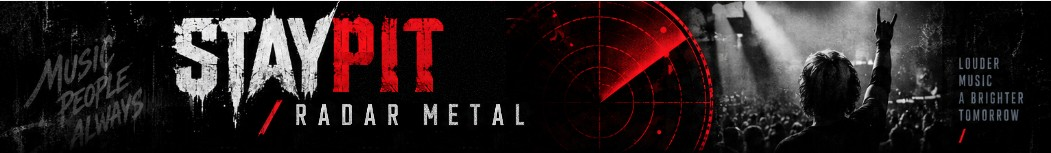
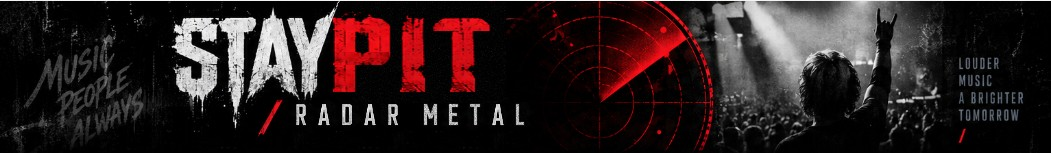
STAYPIT : lettres PIT élargies à la largeur de STAY (icône et bannière)
Claude-Session: https://claude.ai/code/session_01JEY3z9piJCXFyAaQnvY5d2

Changed region(s): [[0.3045, 0.0784, 0.4872, 0.6275]]

diff --git a/public/index.html b/public/index.html
@@ -1,5 +1,5 @@
 <!doctype html>
-<html lang="fr"><head><meta charset="utf-8"><meta name="viewport" content="width=device-width,initial-scale=1,viewport-fit=cover"><meta name="theme-color" content="#070809"><title>STAYPIT / Radar Metal</title><link rel="apple-touch-icon" href="/apple-touch-icon.png?v=3"><link rel="icon" type="image/png" sizes="32x32" href="/favicon-32.png?v=3"><link rel="manifest" href="/manifest.webmanifest"><meta name="apple-mobile-web-app-title" content="STAYPIT"><meta name="theme-color" content="#060709">
+<html lang="fr"><head><meta charset="utf-8"><meta name="viewport" content="width=device-width,initial-scale=1,viewport-fit=cover"><meta name="theme-color" content="#070809"><title>STAYPIT / Radar Metal</title><link rel="apple-touch-icon" href="/apple-touch-icon.png?v=4"><link rel="icon" type="image/png" sizes="32x32" href="/favicon-32.png?v=4"><link rel="manifest" href="/manifest.webmanifest"><meta name="apple-mobile-web-app-title" content="STAYPIT"><meta name="theme-color" content="#060709">
 <style>
 @import url('https://fonts.googleapis.com/css2?family=Barlow+Condensed:wght@500;600;700;800;900&family=Inter:wght@400;500;600;700;800&display=swap');
 :root{--bg:#050607;--panel:#0b0e12;--panel2:#0f1318;--line:#27303a;--red:#e50914;--red2:#ff2733;--white:#f5f5f5;--muted:#8e99a5;--soft:#c6ccd2;--max:1440px}
@@ -528,10 +528,10 @@ body.sl-radio-on .wrap{padding-bottom:150px}
 .profile-manage-lbl{font-size:12px;color:#8a939c;font-weight:700}
 .profile-del{margin-left:auto;border:1px solid #4a1d21;border-radius:999px;background:#120809;color:#ff8a92;font:700 12px Inter,Arial,sans-serif;padding:8px 12px;cursor:pointer;min-height:0}
 </style></head><body>
-<div id="authGate" class="auth-gate"><img class="auth-hero" src="/staypit-banner.jpg?v=1" alt="STAYPIT Radar Metal"><div class="auth-box"><div class="auth-sub">Votre espace personnel</div><h1 id="authTitle" class="auth-title">Se connecter</h1><form id="authForm" class="auth-form"><input id="authUser" name="username" type="text" autocomplete="username" placeholder="Nom d'utilisateur ou e-mail" minlength="3" maxlength="32" required><input id="authEmail" name="email" type="email" autocomplete="email" placeholder="Adresse e-mail" required><input id="authPass" name="password" type="password" autocomplete="current-password" placeholder="Mot de passe" minlength="6" required><div id="authError" class="auth-error"></div><button id="authSubmit" class="btn" type="submit">SE CONNECTER</button></form><div id="authForgot" class="auth-forgot"><button type="button" onclick="showForgotPassword()">Mot de passe ou nom d’utilisateur oublié ?</button></div><div id="forgotBox" class="auth-extra"><div class="auth-forgot-help">Indiquez l’adresse e-mail de votre compte : vous recevrez votre <strong>nom d’utilisateur</strong> et un lien pour choisir un <strong>nouveau mot de passe</strong>.</div><input id="forgotEmail" type="email" autocomplete="email" placeholder="Votre adresse e-mail"><button id="forgotSubmit" class="btn" type="button" onclick="requestPasswordReset()">ENVOYER LE LIEN</button><div id="forgotMsg" class="auth-email-note"></div><button type="button" class="mini" onclick="hideForgotPassword()">Retour à la connexion</button></div><div id="authNote" class="auth-note">Chaque compte possède ses propres groupes, photos, descriptions, actualités et concerts associés.</div><div class="auth-switch"><span id="authSwitchText">Pas encore de compte ?</span> <button id="authSwitch" type="button">Créer un compte</button></div><a class="auth-privacy" href="/confidentialite.html" target="_blank" rel="noopener">Confidentialité</a></div></div>
-<div id="resetGate" class="auth-gate hidden"><img class="auth-hero" src="/staypit-banner.jpg?v=1" alt="STAYPIT Radar Metal"><div class="auth-box"><div class="auth-sub">Récupération du compte</div><h1 class="auth-title">Nouveau mot de passe</h1><form id="resetForm" class="auth-form"><input id="resetPass" type="password" autocomplete="new-password" placeholder="Nouveau mot de passe" minlength="6" required><input id="resetPass2" type="password" autocomplete="new-password" placeholder="Confirmer le mot de passe" minlength="6" required><div id="resetError" class="auth-error"></div><button class="btn" type="submit">ENREGISTRER LE NOUVEAU MOT DE PASSE</button></form><div class="auth-note">Le lien de récupération est temporaire et utilisable une seule fois.</div></div></div>
+<div id="authGate" class="auth-gate"><img class="auth-hero" src="/staypit-banner.jpg?v=2" alt="STAYPIT Radar Metal"><div class="auth-box"><div class="auth-sub">Votre espace personnel</div><h1 id="authTitle" class="auth-title">Se connecter</h1><form id="authForm" class="auth-form"><input id="authUser" name="username" type="text" autocomplete="username" placeholder="Nom d'utilisateur ou e-mail" minlength="3" maxlength="32" required><input id="authEmail" name="email" type="email" autocomplete="email" placeholder="Adresse e-mail" required><input id="authPass" name="password" type="password" autocomplete="current-password" placeholder="Mot de passe" minlength="6" required><div id="authError" class="auth-error"></div><button id="authSubmit" class="btn" type="submit">SE CONNECTER</button></form><div id="authForgot" class="auth-forgot"><button type="button" onclick="showForgotPassword()">Mot de passe ou nom d’utilisateur oublié ?</button></div><div id="forgotBox" class="auth-extra"><div class="auth-forgot-help">Indiquez l’adresse e-mail de votre compte : vous recevrez votre <strong>nom d’utilisateur</strong> et un lien pour choisir un <strong>nouveau mot de passe</strong>.</div><input id="forgotEmail" type="email" autocomplete="email" placeholder="Votre adresse e-mail"><button id="forgotSubmit" class="btn" type="button" onclick="requestPasswordReset()">ENVOYER LE LIEN</button><div id="forgotMsg" class="auth-email-note"></div><button type="button" class="mini" onclick="hideForgotPassword()">Retour à la connexion</button></div><div id="authNote" class="auth-note">Chaque compte possède ses propres groupes, photos, descriptions, actualités et concerts associés.</div><div class="auth-switch"><span id="authSwitchText">Pas encore de compte ?</span> <button id="authSwitch" type="button">Créer un compte</button></div><a class="auth-privacy" href="/confidentialite.html" target="_blank" rel="noopener">Confidentialité</a></div></div>
+<div id="resetGate" class="auth-gate hidden"><img class="auth-hero" src="/staypit-banner.jpg?v=2" alt="STAYPIT Radar Metal"><div class="auth-box"><div class="auth-sub">Récupération du compte</div><h1 class="auth-title">Nouveau mot de passe</h1><form id="resetForm" class="auth-form"><input id="resetPass" type="password" autocomplete="new-password" placeholder="Nouveau mot de passe" minlength="6" required><input id="resetPass2" type="password" autocomplete="new-password" placeholder="Confirmer le mot de passe" minlength="6" required><div id="resetError" class="auth-error"></div><button class="btn" type="submit">ENREGISTRER LE NOUVEAU MOT DE PASSE</button></form><div class="auth-note">Le lien de récupération est temporaire et utilisable une seule fois.</div></div></div>
 <div class="sticky-shell">
-<header class="hero"><img class="hero-img" id="heroImg" src="/staypit-banner.jpg?v=1" alt="STAYPIT Radar Metal"><div class="radar-sweep" id="radarSweep" aria-hidden="true"><div class="radar-dim"></div><div class="radar-beam"></div><span class="radar-blip b1"></span><span class="radar-blip b2"></span><span class="radar-blip b3"></span></div></header>
+<header class="hero"><img class="hero-img" id="heroImg" src="/staypit-banner.jpg?v=2" alt="STAYPIT Radar Metal"><div class="radar-sweep" id="radarSweep" aria-hidden="true"><div class="radar-dim"></div><div class="radar-beam"></div><span class="radar-blip b1"></span><span class="radar-blip b2"></span><span class="radar-blip b3"></span></div></header>
 <div class="nav-wrap"><div class="wrap nav-container"><nav class="nav"><button class="active" data-s="radar"><span class="nav-icon"><i data-lucide="radar" aria-hidden="true"></i><b class="sl-nav-badge" data-badge="radar" hidden></b></span><span>Actus</span></button><button data-s="live"><span class="nav-icon"><i data-lucide="ticket" aria-hidden="true"></i><b class="sl-nav-badge" data-badge="live" hidden></b></span><span>Concerts</span></button><button data-s="clips"><span class="nav-icon"><i data-lucide="headphones" aria-hidden="true"></i></span><span>Écouter</span></button><button data-s="styles"><span class="nav-icon"><svg class="sl-explorer" viewBox="0 0 24 24" fill="none" stroke="currentColor" stroke-width="1.5" stroke-linecap="round" stroke-linejoin="round" aria-hidden="true"><path d="M17.81 3.75 19.67 1.5 22.0 2.29 18.71 4.56Z"/><path d="M11.37 10.59 9.7 7.12 6.71 9.0 7.75 11.47 2.0 15.44 7.38 17.45 9.36 22.5 12.01 16.17 14.26 15.37 12.58 11.67Z"/><path d="M17.93 3.85 11.64 10.83"/><path d="M18.59 4.45 12.31 11.43"/><path d="M8.2 13.39 10.12 15.12"/></svg></span><span>Groupes</span></button><button data-s="community"><span class="nav-icon"><i data-lucide="users-round" aria-hidden="true"></i><b class="sl-nav-badge" data-badge="community" hidden></b></span><span>Communauté</span></button></nav></div></div>
 </div>
 <div class="wrap top-controls">
@@ -1467,7 +1467,7 @@ async function helpGo(view){helpView=view;const box=$('helpBody'),title=$('helpT
   box.innerHTML=back+(SL_STANDALONE?'<div class="sl-inst-done">✓ STAYPIT est déjà ouvert depuis ton écran d’accueil.</div>':'')
    +`<div class="sl-inst-tabs"><button type="button" class="${tab==='ios'?'on':''}" onclick="helpInstallTab='ios';helpGo('install')">iPhone / iPad</button><button type="button" class="${tab==='android'?'on':''}" onclick="helpInstallTab='android';helpGo('install')">Android</button></div>`
    +(tab==='ios'?ios:android)
-   +`<div class="sl-inst-res"><img src="/apple-touch-icon.png?v=3" alt=""><div><b>L’icône STAYPIT apparaît</b><small>Ouvre STAYPIT depuis cette icône : plein écran, sans barre du navigateur. Il faudra te reconnecter une fois.</small></div></div>`;return}
+   +`<div class="sl-inst-res"><img src="/apple-touch-icon.png?v=4" alt=""><div><b>L’icône STAYPIT apparaît</b><small>Ouvre STAYPIT depuis cette icône : plein écran, sans barre du navigateur. Il faudra te reconnecter une fois.</small></div></div>`;return}
  if(view==='write'){title.textContent='Nous écrire';
   box.innerHTML=back+`<form id="helpForm" class="sl-help-form" autocomplete="off"><label>Sujet</label><div class="sl-help-topics">${['Question','Bug','Idée','Autre'].map((t,i)=>`<button type="button" class="${i===0?'on':''}" data-t="${t}">${t}</button>`).join('')}</div><label for="helpMsg">Ton message</label><textarea id="helpMsg" rows="6" maxlength="3000" placeholder="Décris ta question ou le problème rencontré…"></textarea><button type="submit" class="sl-news-ok" id="helpSend">Envoyer</button><p class="sl-help-note">Tu retrouveras la réponse dans <b>Aide › Mes messages</b>. Tu peux aussi écrire à <a href="mailto:contact@stayloud-radar.online">contact@stayloud-radar.online</a>.</p></form>`;
   box.querySelectorAll('.sl-help-topics button').forEach(b=>b.onclick=()=>{box.querySelectorAll('.sl-help-topics button').forEach(x=>x.classList.toggle('on',x===b))});
@@ -2047,7 +2047,7 @@ if('serviceWorker' in navigator)window.addEventListener('load',()=>navigator.ser
  };
  const nav=on=>`<div class="tr-nav">${[['radar','Actus'],['cal','Concerts'],['head','Écouter'],['guitar','Groupes'],['users','Communauté']].map(([i,t])=>`<span class="${t===on?'on':''}">${ICON[i]}<em>${t}</em></span>`).join('')}</div>`;
  const SLIDES=[
-  {t:'Bienvenue sur STAYPIT',p:'Ton radar métal personnel : les <b>actus</b> et les <b>sorties</b> de tes groupes, leurs <b>concerts</b> avec les <b>billets</b>, ton agenda et tes <b>setlists</b>, les <b>clips</b> et la <b>radio</b> métal, au même endroit.',v:`<div class="tr-screen tr-welcome"><div class="tr-ban"><img src="/staypit-banner.jpg?v=1" alt=""><div class="tr-sweep"></div></div><div class="tr-hint">Pour l’instant, aucun groupe n’est enregistré.</div></div>`},
+  {t:'Bienvenue sur STAYPIT',p:'Ton radar métal personnel : les <b>actus</b> et les <b>sorties</b> de tes groupes, leurs <b>concerts</b> avec les <b>billets</b>, ton agenda et tes <b>setlists</b>, les <b>clips</b> et la <b>radio</b> métal, au même endroit.',v:`<div class="tr-screen tr-welcome"><div class="tr-ban"><img src="/staypit-banner.jpg?v=2" alt=""><div class="tr-sweep"></div></div><div class="tr-hint">Pour l’instant, aucun groupe n’est enregistré.</div></div>`},
   {t:'1 · Ajoute tes groupes',p:'Va dans <b>Groupes</b>, tape le nom d’un groupe puis touche <b>+ Ajouter</b>. C’est grâce à tes groupes que STAYPIT trouve les actus, les albums, les concerts et les clips.',v:`<div class="tr-screen"><div class="tr-title">GROUPES</div><div class="tr-input"><span class="tr-typing">Gojira</span><i class="tr-caret"></i></div><div class="tr-suggest"><span class="tr-av"></span><b>Gojira</b><small>Death Metal</small></div><div class="tr-btn tr-press">+ AJOUTER</div>${nav('Groupes')}<div class="tr-finger tr-f-add"></div></div>`},
   {t:'2 · Actus et sorties',p:'<b>Actualités</b> : les articles sur tes groupes des 6 derniers mois. <b>Sorties</b> : leurs albums récents et à venir. Un <b>nouvel album</b> ? Une pastille rouge s’allume sur <b>Actus</b>.',v:`<div class="tr-screen"><div class="tr-title">ACTUS</div><div class="tr-seg tr-seg2 tr-seg-static"><span>Actualités</span><span class="on">Sorties</span></div><div class="tr-new">● NOUVEAU</div>${[['GOJIRA','Album · 12 mars 2027 · à venir'],['LANDMVRKS','The Darkest Place · 2025']].map(([b,x],i)=>`<div class="tr-card" style="animation-delay:${i*.35}s"><span class="tr-cover-sm"></span><div><em>${b}</em><b>${x}</b></div></div>`).join('')}${nav('Actus')}</div>`},
   {t:'3 · Les concerts',p:'<b>Mes groupes</b> : leurs concerts en France, premières parties comprises. <b>Autour de moi</b> : tous les concerts metal autour de ta <b>position</b> ou d’une <b>ville</b>, dans le rayon choisi. Un nouveau concert d’un de tes groupes ? Pastille rouge sur <b>Concerts</b>.',v:`<div class="tr-screen"><div class="tr-title">CONCERTS</div><div class="tr-seg"><span>Mes groupes</span><span>Autour de moi</span><span>Agenda</span><i class="tr-seg-on"></i></div><div class="tr-chips"><span>10 km</span><span>20 km</span><span class="on">50 km</span><span>100 km</span></div><div class="tr-ev"><div class="tr-date"><b>18</b>OCT</div><div><em>GOJIRA <i class="tr-mine">Ton groupe</i></em><b>Le Zénith · Nantes · 38 km</b></div></div><div class="tr-ev" style="animation-delay:.4s"><div class="tr-date"><b>09</b>NOV</div><div><em>ARCH ENEMY</em><b>Le Trabendo · Paris · 21 km</b></div></div>${nav('Concerts')}</div>`},

diff --git a/public/sw.js b/public/sw.js
@@ -2,8 +2,8 @@
 // Pages: always from the network (latest version); a clear offline page otherwise.
 // Images / icons: served from the cache, refreshed in the background.
 // The API and other sites are never cached here.
-const CACHE='staypit-v4';
-const SHELL=['/manifest.webmanifest','/icon-192.png','/icon-512.png','/apple-touch-icon.png','/favicon-32.png','/staypit-banner.jpg?v=1'];
+const CACHE='staypit-v5';
+const SHELL=['/manifest.webmanifest','/icon-192.png','/icon-512.png','/apple-touch-icon.png','/favicon-32.png','/staypit-banner.jpg?v=2'];
 const OFFLINE=`<!doctype html><html lang="fr"><head><meta charset="utf-8"><meta name="viewport" content="width=device-width,initial-scale=1"><title>STAYPIT – hors ligne</title><style>body{margin:0;min-height:100vh;display:grid;place-items:center;background:#060709;color:#e8ebee;font:16px/1.5 Inter,Arial,sans-serif;text-align:center;padding:24px}img{width:96px;height:96px;border-radius:22px}h1{font-size:20px;margin:18px 0 6px}p{color:#8a939c;margin:0 0 18px}button{border:0;border-radius:999px;background:#e50914;color:#fff;font:700 15px Inter,Arial,sans-serif;padding:12px 22px}</style></head><body><div><img src="/icon-192.png" alt=""><h1>Pas de connexion</h1><p>STAYPIT a besoin d’Internet pour trouver les actus et les concerts.<br>Vérifie ta connexion puis réessaie.</p><button onclick="location.reload()">Réessayer</button></div></body></html>`;
 
 self.addEventListener('install',e=>{

diff --git a/docs/notes/V7.33.0-NOTES.md b/docs/notes/V7.33.0-NOTES.md
@@ -6,7 +6,7 @@ Le nom « STAY LOUD » est déjà une marque européenne (classe 41, concerts) :
 - Nouveau fichier de bannière : `public/staypit-banner.jpg` / `.png` (l'ancien `stayloud-banner.*` est supprimé).
 - Nom affiché partout : titre de l'onglet, écran d'accueil (manifest), présentation, aide, e-mails (mot de passe oublié, contrôle du jour), agenda (.ics), page Confidentialité.
 - Instructions d'installation : « Ouvre staypit.com… ».
-- Service worker : cache `staypit-v4` (les anciens fichiers sont rechargés).
+- Service worker : cache `staypit-v5` (les anciens fichiers sont rechargés).
 
 Volontairement inchangés :
 - l'adresse contact@stayloud-radar.online, tant que la redirection e-mail de staypit.com n'est pas en place ;
